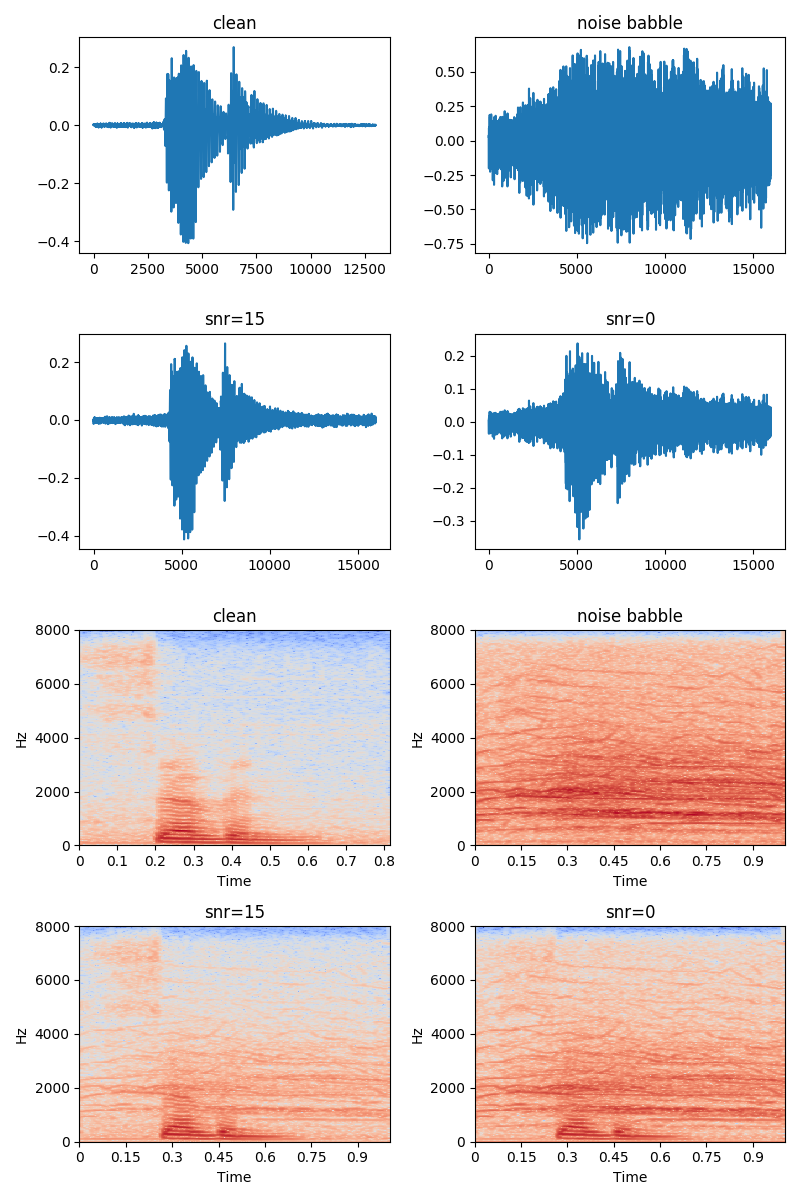
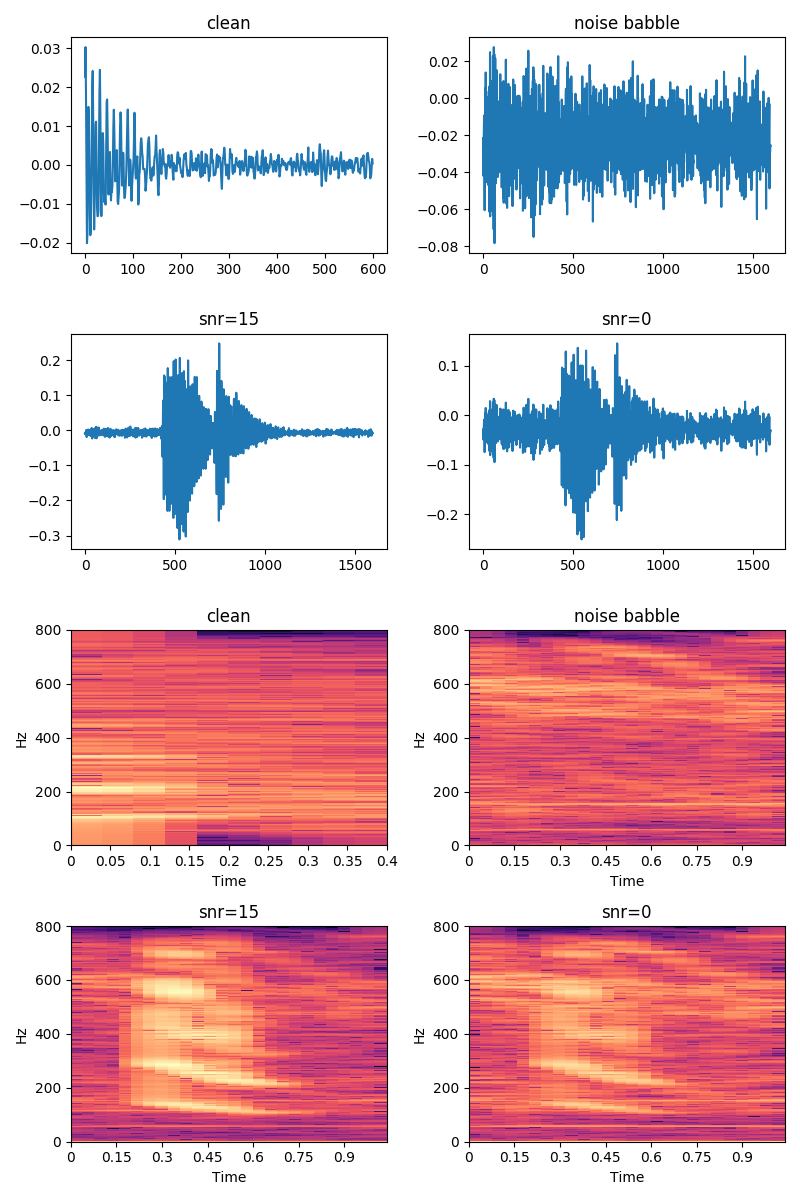
Updated Part2

diff --git a/Part2.py b/Part2.py
@@ -20,7 +20,7 @@ winstep=1.*hop_length/sr
 num_freq_bins=n_fft//2 +1
 
 #################################################################
-if 0 : ## Stationary Noise
+if True : ## Stationary Noise
     print("\nStationary Noise")
     #################################################################
     if True : ## Waveform of the number 'seven'
@@ -61,7 +61,7 @@ if 0 : ## Stationary Noise
     print('Saved to ',fig_path)
 
 #################################################################
-if 0 : ## Non-Stationary Noise
+if True : ## Non-Stationary Noise
     print("\nNon-Stationary Noise")
     #################################################################
     if True : ## Waveform of the number 'seven'

diff --git a/README.md b/README.md
@@ -1,4 +1,4 @@
-# Medium Article code reproduction
+# Code Reproduction Of My Medium Article Series : Audio-Speech-Processing
 
 ## Init
 ```bash
@@ -13,7 +13,7 @@ python Part1.py
 ```
 
 ## Part 2 : Speech Data Augmentation
-Visit 
+Visit https://medium.com/@leonardloo/part-2-audio-speech-processing-speech-data-augmentation-463dac823a8d?sk=9e45d662208dc746e22186242f4e6d98
 ```bash
 python Part2.py
 ```
